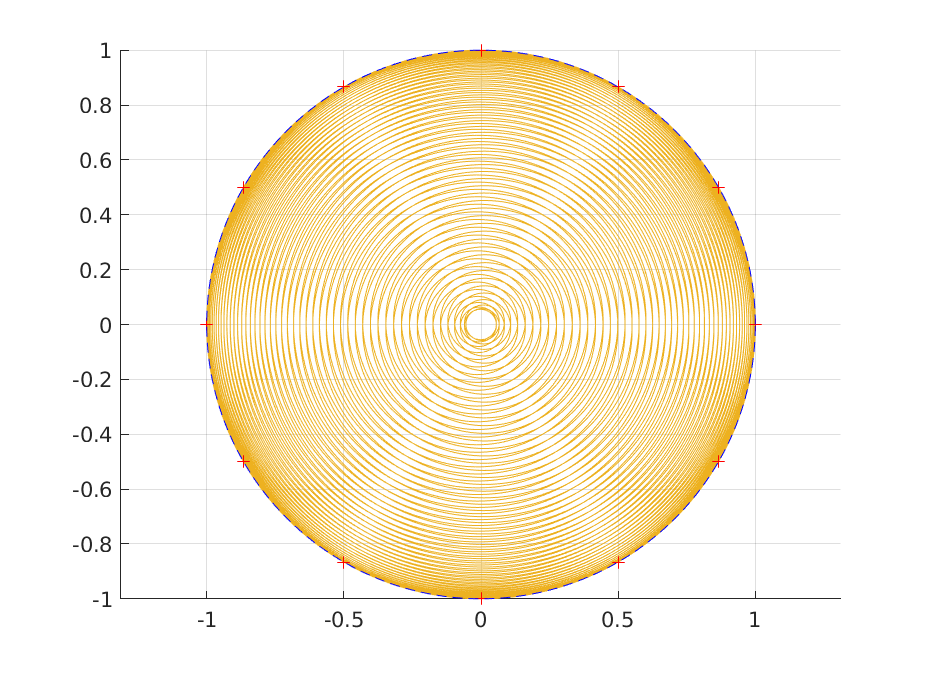
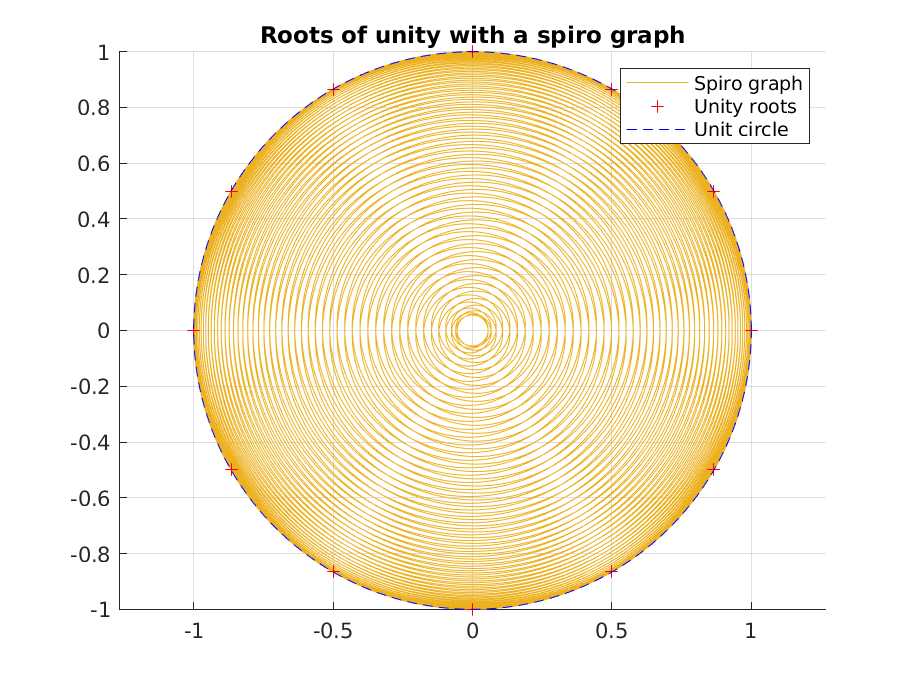
Start hw3

diff --git a/hw3/CC_hw3.m b/hw3/CC_hw3.m
@@ -1,0 +1,28 @@
+%---------------------------------------------------------------------
+% File: CC_hw3.m
+% Description: This script plots various circuit functions.
+% Author: Caden Churchman, ccaden21@ksu.edu,
+% (c)2021, Caden Churchman. All rights reserved.
+% Date: 10 September 2021(Version 1.00)
+% Platform: MATLAB Release R2021a, Ubuntu 20.04
+% Reference: Steve Warren. ECE 512 Homework Assignment #3, (c)2021,
+% Kansas State University
+%---------------------------------------------------------------------
+
+t = -8:0.001:8;
+
+u = @(t) t > 0; 
+
+f = @(t) (3 - exp(-2*t)) .* (u(t + 1) - u(t - 4));
+
+fe = @(t) (f(t) + f(-t)) / 2;
+fo = @(t) (f(t) - f(-t)) / 2;
+
+hold on
+grid on
+plot(t, fo(t));
+plot(t, fe(t));
+plot(t, f(t));
+
+legend("fo(t)", "fe(t)", "f(t)");
+hold off

diff --git a/hw3/p2.m b/hw3/p2.m
@@ -1,0 +1,17 @@
+t = -8:0.001:8;
+
+u = @(t) t > 0; 
+
+f = @(t) (2 * exp(t*log(2)/2).*(u(t - 1) - u(t - 2)) - 4 * (t - 3) .* (u(t - 2) - u(t - 4) ));
+
+fe = @(t) (f(t) + f(-t)) / 2;
+fo = @(t) (f(t) - f(-t)) / 2;
+
+hold on
+grid on
+plot(t, fo(t));
+plot(t, fe(t));
+plot(t, f(t));
+
+legend("fo(t)", "fe(t)", "f(t)");
+hold off

diff --git a/hw2/CC_hw2.m b/hw2/CC_hw2.m
@@ -44,6 +44,8 @@ h(2) = plot(cos(0:0.01:2*pi), sin(0:0.01:2*pi), '--', 'color', 'b');
 plot(a(R,r,p,x) / m, b(R,r,p,x) / m)
 
 % Configure
+title("Roots of unity with a spiro graph");
+legend("Unity roots", "Unit circle", "Spiro graph");
 uistack(h(1), 'top');
 pause(0.5);
 uistack(h(2), 'top');

diff --git a/hw3/p1.m b/hw3/p1.m
@@ -1,0 +1,17 @@
+t = -8:0.001:8;
+
+u = @(t) t > 0; 
+
+f = @(t) (3 - exp(-2*t)) .* (u(t + 1) - u(t - 4));
+
+fe = @(t) (f(t) + f(-t)) / 2;
+fo = @(t) (f(t) - f(-t)) / 2;
+
+hold on
+grid on
+plot(t, fo(t));
+plot(t, fe(t));
+plot(t, f(t));
+
+legend("fo(t)", "fe(t)", "f(t)");
+hold off

diff --git a/hw3/p2_2_5.m b/hw3/p2_2_5.m
@@ -1,0 +1,14 @@
+t = -2:0.001:8;
+
+u = @(t) t > 0; 
+
+f = @(t) -1 + 4 * t + 5 * exp(-t);
+
+%fe = @(t) (f(t) + f(-t)) / 2;
+%fo = @(t) (f(t) - f(-t)) / 2;
+
+grid on
+%plot(t, fo(t));
+%plot(t, fe(t));
+plot(t, f(t));
+hold off
